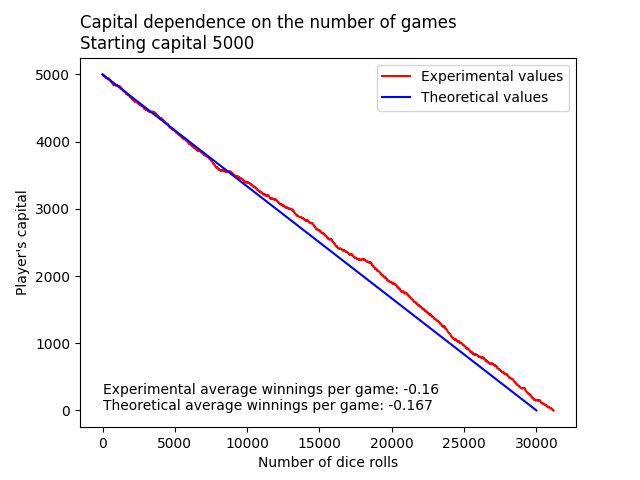
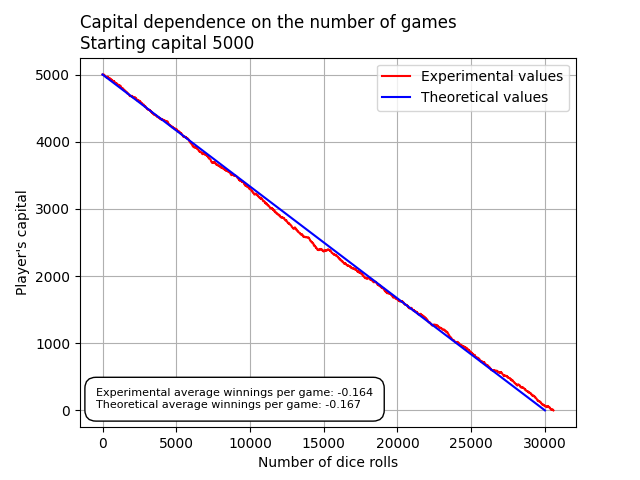
Classes 4 exB update + exC

diff --git a/statistics/classes_4/exC/exC.py b/statistics/classes_4/exC/exC.py
@@ -1,5 +1,13 @@
 # Script with a simulation of a given number of dice rolls (or until one of the players goes bankrupt). To win
 # player's roll have to be higher than his opponent's (Player's dice roll > opponent's dice roll). Winning gives one
+# 7/4 coin to the player, losing takes one away.
+# The script generates experimental and theoretical graphs of the dependence of capital on the number of games.
+# The experimental average win per game is also compared to the theoretical value.
+# Script is almost the same as in exB, but with a different value of winning one game.
+# Author: Kamil Czerwiński, Jagiellonian University, CS 2020/2021
+
+# Script with a simulation of a given number of dice rolls (or until one of the players goes bankrupt). To win
+# player's roll have to be higher than his opponent's (Player's dice roll > opponent's dice roll). Winning gives one
 # coin to the player, losing takes one away.
 # The script generates experimental and theoretical graphs of the dependence of capital on the number of games.
 # The experimental average win per game is also compared to the theoretical value.
@@ -17,15 +25,15 @@ def calculate_experimental(player_capital: int, num_of_games: int) -> tuple:
     :return: Tuple (capital, iterations) containing capital list, iterations number list, average winnings per game
     """
     # list with starting values
-    capital_value_list: list = [player_capital]
-    iterations_number_list: list = [0]
+    capital_value_list = [player_capital]
+    iterations_number_list = [0]
 
     # main game
     for iteration in range(1, num_of_games + 1):
         croupier_roll = random.randint(1, 6)
         player_roll = random.randint(1, 6)
         if player_roll < croupier_roll:
-            player_capital += 1
+            player_capital += 1.4
         else:
             player_capital -= 1
         # if player gone bankrupt, break
@@ -45,18 +53,18 @@ def calculate_experimental(player_capital: int, num_of_games: int) -> tuple:
     return capital_value_list, iterations_number_list, win_per_game
 
 
-def calculate_theoretical(player_capital: int) -> tuple:
+def calculate_theoretical(player_capital: int, num_of_games: int) -> tuple:
     """
-    Function for calculating theoretical capital. Player's theoretical winnings per game are -1/6.
+    Function for calculating theoretical capital. Player's theoretical winnings per game are 0.
+    :param num_of_games: Number of dice rolls
     :param player_capital: Players starting capital
     :return: Tuple (capital, iterations) containing capital list, iterations number list and theoretical average
     winnings per game. For convenient reasons capital and iterations lists are normalized (only min and max value in
     lists)
     """
-    capital_list: list = [player_capital, 0]
-    iterations_list: list = [0, player_capital * 6]  # [starting turn, turn at which player's capital will hit 0]. *6
-    # because of -1/6 winnings per game value
-    game_winnings: float = round(-1/6, 3)
+    capital_list: list = [player_capital, player_capital]
+    iterations_list: list = [0, num_of_games]  # player's capital in theory will not change with following games
+    game_winnings: float = 0.0
     print(f"Experimental value of winning in single game: {game_winnings}")
     return capital_list, iterations_list, game_winnings
 
@@ -69,9 +77,9 @@ def roll_the_dices(player_capital: int) -> None:
     """
     # call functions
     experimental_list_capital, experimental_list_iterations, experimental_game_winnings = calculate_experimental(
-        player_capital=player_capital, num_of_games=10**5)
+        player_capital=player_capital, num_of_games=10 ** 5)
     theory_list_capital, theory_list_iterations, theory_game_winnings = calculate_theoretical(
-        player_capital=player_capital)
+        player_capital=player_capital, num_of_games=10 ** 5)
 
     # draw graph
     fig, ax = plt.subplots()
@@ -79,15 +87,15 @@ def roll_the_dices(player_capital: int) -> None:
     ax.plot(theory_list_iterations, theory_list_capital, color='blue', label=f'Theoretical values')
     fig.text(0.15, 0.15, f"Experimental average winnings per game: {experimental_game_winnings}\n"
                          f"Theoretical average winnings per game: {theory_game_winnings}", fontsize=8,
-                         bbox=dict(facecolor='none', edgecolor='black', boxstyle='round,pad=1', fc='white'))
+             bbox=dict(facecolor='none', edgecolor='black', boxstyle='round,pad=1', fc='white'))
     ax.grid()
     ax.legend()
     plt.ylabel(f"Player's capital")
     plt.xlabel(f"Number of dice rolls")
     plt.title(f"Capital dependence on the number of games\nStarting capital {player_capital}", loc='left')
-    fig.savefig(f"example2.png")
+    fig.savefig(f"example1.png")
     plt.show()
 
 
 if __name__ == '__main__':
-    roll_the_dices(5000)
+    roll_the_dices(500)
